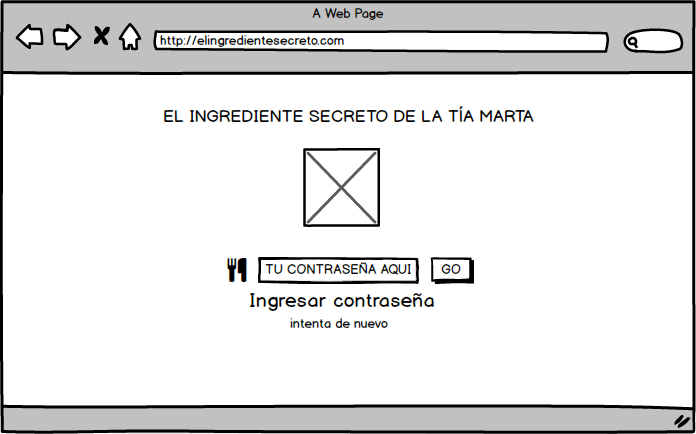
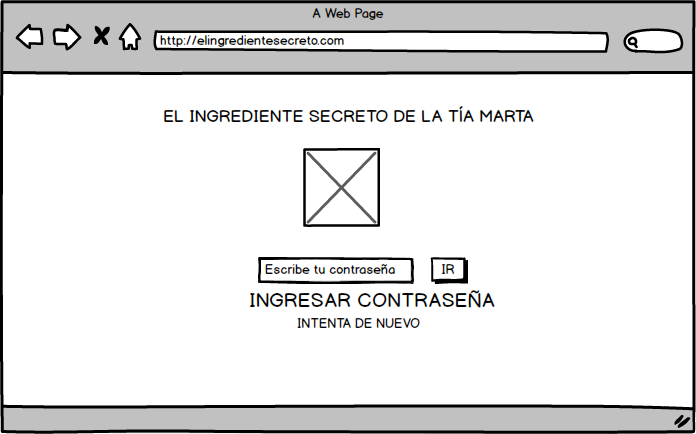
aplicando mas estilos, codigos funcionando

Changed region(s): [[0.3017, 0.5991, 0.7241, 0.7788]]

diff --git a/src/index.html b/src/index.html
@@ -16,7 +16,7 @@
     <section id="screen1" class="screen1">
       <img src="salad.jpg" class="img1">
       <form action="" class="ingreso">
-        <input type="password" id="contraseña" class="contraseña" placeholder="TU CONTRASEÑA AQUI">
+        <input type="password" id="contraseña" class="contraseña" placeholder="Escribe tu contraseña">
         <input type="button" value="GO " class="go1" id="go1">
         <br>
         <p>INGRESAR CONTRASEÑA</p>
@@ -32,7 +32,7 @@
       <img src="rocoto-relleno.jpg" class="rocoto">
       <p>INGRESA TU CODIGO DE MOVIMIENTO</p><br>
       <img src="pollo.jpg" class="pollo">
-      <input type="" name="codigo" id="codigo" placeholder="TU CODIGO AQUI"> <br>
+      <input type="" name="codigo" id="codigo" placeholder="Escribe tu codigo"> <br>
       <p> ESCOGE TU OPCION </p><br>
       <button id="cifrar" class="cifrar"> CIFRAR </button>
       <button id="descifrar" class="descifrar"> DESCIFRAR </button><br>

diff --git a/test/cipher.spec.js b/test/cipher.spec.js
@@ -10,7 +10,9 @@ describe('cipher', () => {
       assert.equal(typeof cipher.encode, 'function');
     });
 
-    it('debería retornar "HIJKLMNOPQRSTUVWXYZABCDEFG" para "ABCDEFGHIJKLMNOPQRSTUVWXYZ" con offset 33');
+    it('debería retornar "HIJKLMNOPQRSTUVWXYZABCDEFG" para "ABCDEFGHIJKLMNOPQRSTUVWXYZ" con offset 33',() =>{
+      assert.equal(cipher.encode(33,'ABCDEFGHIJKLMNOPQRSTUVWXYZ'), 'HIJKLMNOPQRSTUVWXYZABCDEFG');
+    });
   });
 
   describe('cipher.decode', () => {
@@ -19,7 +21,9 @@ describe('cipher', () => {
       assert.equal(typeof cipher.decode, 'function');
     });
 
-    it('debería retornar "ABCDEFGHIJKLMNOPQRSTUVWXYZ" para "HIJKLMNOPQRSTUVWXYZABCDEFG" con offset 33');
+    it('debería retornar "ABCDEFGHIJKLMNOPQRSTUVWXYZ" para "HIJKLMNOPQRSTUVWXYZABCDEFG" con offset 33',() =>{
+      assert.equal(cipher.decode(33,'HIJKLMNOPQRSTUVWXYZABCDEFG' ),'ABCDEFGHIJKLMNOPQRSTUVWXYZ');
+    });
   });
 
 });

diff --git a/src/index.js b/src/index.js
@@ -2,6 +2,9 @@
 /*llamando los inputs*/
 
 const go1 = document.getElementById('go1');
+const screen1 =document.getElementById("screen1")
+const screen2 =document.getElementById("screen2")
+const screen3 =document.getElementById("screen3")
 
 /*condicional y contador*/
 let contador = 0;
@@ -63,16 +66,21 @@ volver.addEventListener("click", () => {
 
 	screen1.classList.add("hide");
 	screen2.classList.remove("hide");
+
 	screen3.classList.add("hide");
 
 })
 const salir = document.getElementById('salir');
-salir.addEventListener("click"), () => {
+salir.addEventListener("click", () => {
 
 	screen1.classList.remove("hide");
 	screen2.classList.add("hide");
 	screen3.classList.add("hide");
-};
+
+	document.getElementById("contraseña").value=""
+
+
+});
 
 
 

diff --git a/src/style.css b/src/style.css
@@ -28,7 +28,7 @@ display: none;
     box-sizing: border-box;
     font-size: 18px;
     align-self: center;
-    background-color: rgb(147, 165, 42);
+    background-color: rgb(6, 86, 133);
 }
 
 .rocoto{
